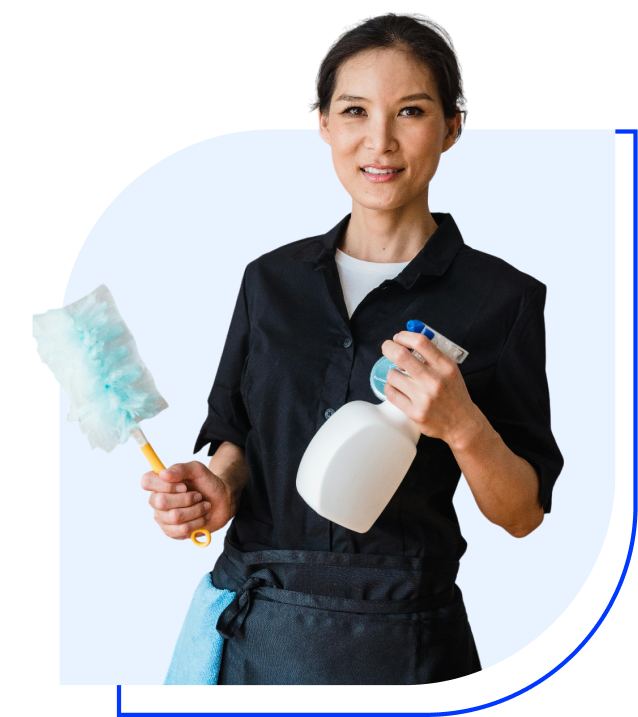
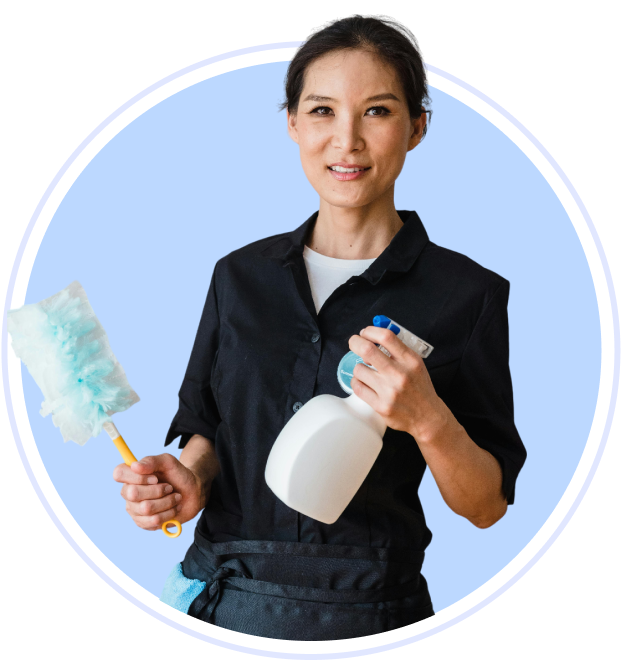
change first screen

diff --git a/src/app/page.tsx b/src/app/page.tsx
@@ -13,33 +13,68 @@ import FAQ from "@/components/FAQ";
 export default function Home() {
   return (
     <>
-      <div className="relative sm:w-fit h-fit mt-56 mb-7 sm:mt-[400px] md:mt-0 col-span-4 sm:col-span-6">
-        <div className="relative z-10 p-3 sm:p-6 md:p-3 w-fit ml-5 sm:ml-0 sm:w-fit bg-[#F1F7FF] drop-shadow-md rounded-sm font-bold text-gray-900 uppercase text-2xl sm:text-[40px] md:text-2xl xl:text-[50px] xl:p-5">
+      <div className="hidden lg:flex col-span-12 justify-between items-center gap-12">
+        <div className="flex flex-col gap-12">
+          <div className="flex flex-col items-start">
+            <div className="w-fit bg-[#F1F7FF] drop-shadow-md rounded-sm font-bold text-gray-900 uppercase text-[30px] xl:text-[45px] 2xl:text-[55px] p-5">
+              У вашій оселі
+            </div>
+            <div className="relative z-20 flex items-center">
+              <div className="p-3 sm:p-6 md:p-3 w-fit bg-[#F1F7FF] drop-shadow-md rounded-sm font-bold text-gray-900 uppercase text-[30px] xl:text-[45px] 2xl:text-[55px] xl:p-5">
+                все буде
+              </div>
+              <div className="-rotate-6 p-3 sm:p-6 md:p-3 w-fit bg-primary shadow-sm rounded-sm font-bold text-white uppercase text-[30px] xl:text-[45px] 2xl:text-[55px] xl:p-5">
+                chisto
+              </div>
+            </div>
+          </div>
+          <div className="flex flex-col items-start gap-4 text-lg text-gray-900 max-w-[90%] xl:text-xl 2xl:text-2xl">
+            Замовляй прибирання оселі або офісу чи коммерційного приміщення.
+            Тримай усе в чистоті та порядку.
+            <OrderForm />
+          </div>
+        </div>
+
+        <Image
+          className="w-[342px] h-[360px] min-[530px]:w-[542px] min-[530px]:h-[520px] min-[560px]:h-[560px] sm:w-[580px] sm:h-[600px] md:h-[620px] lg:w-[400px] lg:h-[420px] xl:w-[580px] xl:h-[620px] 2xl:w-[680px] 2xl:h-[720px]"
+          src="/first-screen-photo.png"
+          width={622}
+          height={654}
+          alt=""
+        />
+      </div>
+
+      <div className="col-span-4 flex items-center justify-center sm:col-span-6 md:col-span-12 xl:col-start-8 xl:col-span-6 lg:hidden">
+        <Image
+          className="w-[342px] h-[360px] min-[530px]:w-[542px] min-[530px]:h-[520px] min-[560px]:h-[560px] sm:w-[580px] sm:h-[600px] md:h-[620px]"
+          src="/first-screen-photo.png"
+          width={622}
+          height={654}
+          alt=""
+        />
+      </div>
+
+      <div className="lg:hidden col-span-4 sm:col-span-6 md:col-span-12 xl:col-start-1 xl:col-span-6 flex flex-col items-center">
+        <div className="p-3 sm:p-6 md:p-3 w-fit bg-[#F1F7FF] drop-shadow-md rounded-sm font-bold text-gray-900 uppercase text-[30px] sm:text-[45px] md:text-[50px] lg:text-[60px] xl:p-5">
           У вашій оселі
         </div>
-        <div className="relative z-10 p-3 sm:p-6 md:p-3 sm:ml-3 w-fit ml-12  bg-[#F1F7FF] drop-shadow-md rounded-sm font-bold text-gray-900 uppercase text-2xl sm:text-[40px] md:text-2xl xl:text-[50px] xl:p-5">
-          все буде
-        </div>
-        <div className="absolute z-20 right-12 bottom-1 -rotate-6 sm:-right-24 md:-right-16 xl:-right-24 p-3 sm:p-6 md:p-3 w-fit bg-primary shadow-sm rounded-sm font-bold text-white uppercase text-2xl sm:text-[40px] md:text-2xl xl:text-[50px] xl:p-5">
-          chisto
+        <div className="relative z-20 flex items-center">
+          <div className="p-3 sm:p-6 md:p-3 w-fit bg-[#F1F7FF] drop-shadow-md rounded-sm font-bold text-gray-900 uppercase text-[30px] sm:text-[45px] md:text-[50px] lg:text-[60px] xl:p-5">
+            все буде
+          </div>
+          <div className="-rotate-6 p-3 sm:p-6 md:p-3 w-fit bg-primary shadow-sm rounded-sm font-bold text-white uppercase text-[30px] sm:text-[45px] md:text-[50px] lg:text-[60px] xl:p-5">
+            chisto
+          </div>
         </div>
       </div>
 
-      <div className="flex flex-col gap-4 text-lg text-gray-900 md:max-w-[454px] xl:max-w-full col-span-4 sm:col-start-1 sm:col-span-6">
+      <div className="lg:hidden flex flex-col items-center text-center gap-4 text-lg text-gray-900 col-span-4 sm:col-start-1 sm:col-span-6 md:col-span-12 lg:px-40 xl:px-0 xl:col-start-1 xl:col-span-6">
         Замовляй прибирання оселі або офісу чи коммерційного приміщення. Тримай
         усе в чистоті та порядку.
         <OrderForm />
       </div>
 
-      <Image
-        className="absolute right-16 sm:top-0 sm:right-20 md:-top-20 md:right-12 w-[320px] h-[360px] sm:w-[524px] sm:h-[589px] md:w-[467px] md:h-[547px] xl:w-[537px] xl:h-[617px]"
-        src="/first-screen-photo.png"
-        width={1037}
-        height={1117}
-        alt=""
-      />
-
-      <div className="col-span-4 sm:col-start-1 sm:col-span-3 md:col-start-1 md:col-span-6 mt-28 md:mt-52 xl:mt-72">
+      <div className="col-span-4 sm:col-start-1 sm:col-span-3 md:col-start-1 md:col-span-6 mt-28">
         <div className="relative w-fit">
           <div className="w-[365px] h-[100px] sm:w-[200px] sm:h-[60px] md:w-[250px] md:h-[80px] lg:w-[365px] lg:h-[104px] rounded-[60%] rotate-12 border border-[#EDEDED]" />
           <div className="absolute -top-7 left-12 rotate-6">
@@ -80,7 +115,7 @@ export default function Home() {
         </div>
       </div>
 
-      <div className="col-start-1 col-span-4 sm:col-span-3 md:col-span-6 flex flex-col gap-5 mt-12 md:mt-52 xl:mt-72">
+      <div className="col-start-1 col-span-4 sm:col-span-3 md:col-span-6 flex flex-col gap-5 mt-12">
         <Link
           href="/generalne"
           className="flex justify-between items-center w-full duration-150 rounded-md border p-3 hover:text-primary border-[#D9D9D9]"

diff --git a/src/app/tsiny/components/PriceCalculator.tsx b/src/app/tsiny/components/PriceCalculator.tsx
@@ -43,11 +43,11 @@ export default function PriceCalculator() {
   return (
     <>
       <div className="col-span-4 sm:col-start-1 sm:col-span-6 md:col-span-6 lg:col-start-2 2xl:col-start-3 2xl:col-span-5 p-6 lg:p-12 rounded-lg bg-white flex flex-col gap-8 text-gray-900">
-        <div className="w-full flex flex-col lg:flex-row gap-5 justify-between items-center">
+        <div className="w-full flex flex-col sm:flex-row md:flex-col lg:flex-row gap-5 justify-between items-center">
           <Selector
             title="Тип прибирання:"
-            className="lg:flex-col items-start gap-1 w-full"
-            triggerClassName="w-36"
+            className="sm:flex-col items-center lg:items-start justify-between w-full"
+            triggerClassName="w-full"
             items={CLEANING_TYPES}
             defaultValue="poverhneve"
             onValueChange={(e: string) =>
@@ -57,8 +57,8 @@ export default function PriceCalculator() {
 
           <Selector
             title="Кількість кімнат:"
-            className="lg:flex-col items-start gap-1 w-full"
-            triggerClassName="w-36"
+            className="sm:flex-col items-center lg:items-start justify-between w-full"
+            triggerClassName="w-full"
             items={[
               { name: 1, value: 1 },
               { name: 2, value: 2 },

diff --git a/src/components/ui/Selector.tsx b/src/components/ui/Selector.tsx
@@ -32,13 +32,13 @@ export default function Selector({
       <Select defaultValue={defaultValue} onValueChange={onValueChange}>
         <SelectTrigger
           className={cn(
-            "w-48 focus-visible:border-0 text-left",
+            "relative w-48 focus-visible:border-0 text-left",
             triggerClassName
           )}
         >
           <SelectValue placeholder="" />
         </SelectTrigger>
-        <SelectContent>
+        <SelectContent className="absolute top-[100%]">
           <SelectGroup>
             {items.map((item) => (
               <SelectItem key={item.value} value={item.value}>
